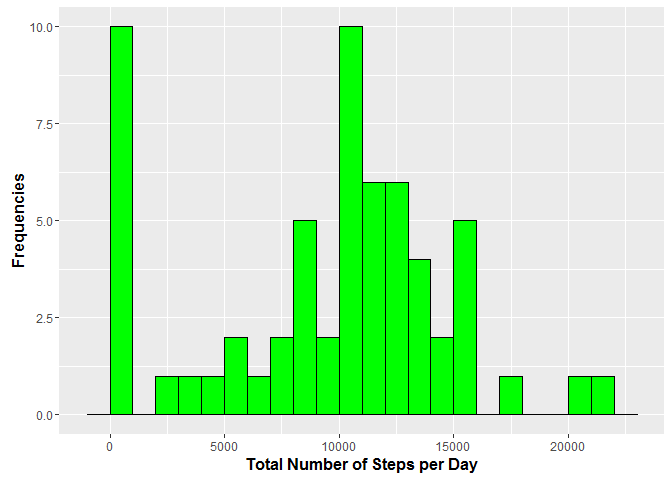
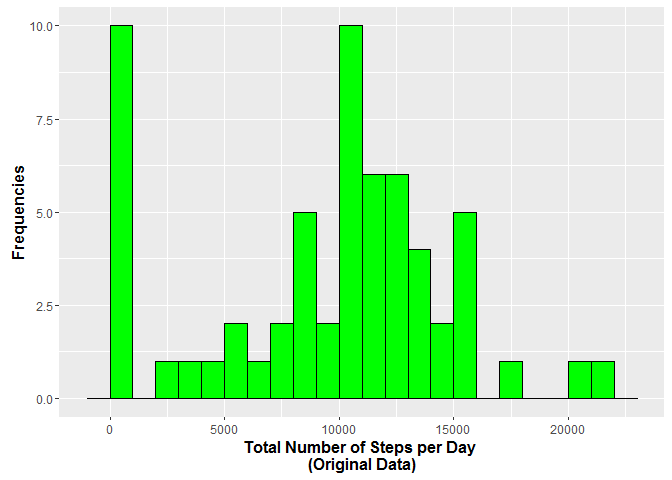
Supplement of the last steps

diff --git a/PA1_template.html b/PA1_template.html
@@ -78,11 +78,11 @@ library(ggplot2)</code></pre>
 <pre><code>## Warning: package 'ggplot2' was built under R version 3.2.3</code></pre>
 <pre class="r"><code># Histogramm
 qplot(part2data$steps, binwidth = 1000) + 
-    xlab(&quot;Total Number of Steps per Day&quot;) +
+    xlab(&quot;Total Number of Steps per Day \n(Original Data)&quot;) +
     ylab(&quot;Frequencies&quot;) +
     theme(axis.title = element_text(face = &quot;bold&quot;, size = 12)) +
     geom_histogram(color = &quot;black&quot;, fill = &quot;green&quot;, binwidth = 1000)</code></pre>
[2 lines of base64/hex data omitted]
 <pre class="r"><code># mean and median of the total number of steps taken per day
 x &lt;- summary(part2data$steps)
 print(x[c(&quot;Mean&quot;, &quot;Median&quot;)])</code></pre>
@@ -105,9 +105,65 @@ print(maxinterval)</code></pre>
 </div>
 <div id="imputing-missing-values" class="section level2">
 <h2>Imputing missing values</h2>
+<p>First the number of missing values is computed:</p>
+<pre class="r"><code># Calculate total number of missing values
+library(sqldf)</code></pre>
+<pre><code>## Warning: package 'sqldf' was built under R version 3.2.3</code></pre>
+<pre><code>## Loading required package: gsubfn</code></pre>
+<pre><code>## Warning: package 'gsubfn' was built under R version 3.2.3</code></pre>
+<pre><code>## Loading required package: proto</code></pre>
+<pre><code>## Warning: package 'proto' was built under R version 3.2.3</code></pre>
+<pre><code>## Loading required package: RSQLite</code></pre>
+<pre><code>## Warning: package 'RSQLite' was built under R version 3.2.3</code></pre>
+<pre><code>## Loading required package: DBI</code></pre>
+<pre><code>## Warning: package 'DBI' was built under R version 3.2.3</code></pre>
+<pre class="r"><code>countNAs &lt;- sqldf(&quot;SELECT COUNT(*) FROM rawdata WHERE steps is NULL&quot;)</code></pre>
+<pre><code>## Loading required package: tcltk</code></pre>
+<pre class="r"><code>print(countNAs)</code></pre>
+<pre><code>##   COUNT(*)
+## 1     2304</code></pre>
+<p>The dataset part3data contains the average steps per intervall across all days. So my impute strategy is to replace the missing value in a special interval with the average of this interval across all days. One effect of this strategy is that a day like October, 1st with missing values everywhere will contain much more steps than before, while October, 2nd with almost only zeroes remains unchanged.</p>
+<p>Following steps are executed:<br />- Merge of the raw data with the average steps per interval<br />- Replacement of missing values<br />- Aggregation across all intervals to determine the total steps per day</p>
+<pre class="r"><code># Daily Activities
+# Impute missing values
+tmp &lt;- merge(rawdata, part3data, by.x = &quot;interval&quot;, by.y = &quot;interval&quot;)
+where &lt;- is.na(tmp$steps.x)
+tmp$steps.x[where] &lt;- tmp$steps.y[where]
+# Aggregate imputed data
+part4data &lt;- aggregate(tmp$steps.x, by = list(tmp$date), FUN = sum)
+# Rename columns
+names(part4data) &lt;- c(&quot;date&quot;, &quot;steps&quot;)</code></pre>
+<p>Afterwards the histogram is generated</p>
+<pre class="r"><code># Histogramm of imputed data
+qplot(part4data$steps, binwidth = 1000) + 
+    xlab(&quot;Total Number of Steps per Day \n(Imputed Data)&quot;) +
+    ylab(&quot;Frequencies&quot;) +
+    theme(axis.title = element_text(face = &quot;bold&quot;, size = 12)) +
+    geom_histogram(color = &quot;black&quot;, fill = &quot;green&quot;, binwidth = 1000)</code></pre>
[1 lines of base64/hex data omitted]
+<pre class="r"><code># mean and median of the total number of steps taken per day of imputed data
+ximp &lt;- summary(part4data$steps)
+print(ximp[c(&quot;Mean&quot;, &quot;Median&quot;)])</code></pre>
+<pre><code>##   Mean Median 
+##  10770  10770</code></pre>
+<p>So the impact is that there are much fewer days with total steps near zero and more days with circa 10000 steps totally. Therefore, mean and median are higher (and in this case the same).</p>
 </div>
 <div id="are-there-differences-in-activity-patterns-between-weekdays-and-weekends" class="section level2">
 <h2>Are there differences in activity patterns between weekdays and weekends?</h2>
+<p>For this analysis the dataset tmp with imputed data is taken as input for the dataset data5input which contains the information about weekday / weekend. As the analysis is made in Germany I had to use the german names of the days.</p>
+<pre class="r"><code># Determine part of week
+part5input &lt;- tmp[, 1:3]
+part5input$partofweek &lt;- as.factor(ifelse(weekdays(as.Date(part5input$date)) 
+    %in% c(&quot;Samstag&quot;, &quot;Sonntag&quot;), &quot;weekend&quot;, &quot;weekday&quot;)) 
+part5data &lt;- aggregate(part5input$steps.x, by = list(part5input$interval, part5input$partofweek), FUN = mean)
+# Rename columns
+names(part5data) &lt;- c(&quot;interval&quot;, &quot;partofweek&quot;, &quot;steps&quot;)</code></pre>
+<p>On base of this data the time series plot is generated:</p>
+<pre class="r"><code># Generating the plot
+#qplot(interval, steps, data = part5data, facets = . ~ partofweek) + geom_line()
+qplot(interval, steps, data = part5data) + geom_line() + 
+    facet_grid(partofweek ~ .) </code></pre>
[1 lines of base64/hex data omitted]
 </div>
 
 

diff --git a/PA1_template.md b/PA1_template.md
@@ -28,7 +28,7 @@ library(ggplot2)
 ```r
 # Histogramm
 qplot(part2data$steps, binwidth = 1000) + 
-	xlab("Total Number of Steps per Day") +
+	xlab("Total Number of Steps per Day \n(Original Data)") +
 	ylab("Frequencies") +
 	theme(axis.title = element_text(face = "bold", size = 12)) +
 	geom_histogram(color = "black", fill = "green", binwidth = 1000)
@@ -75,8 +75,135 @@ print(maxinterval)
 ```
 
 
-## Imputing missing values
+## Imputing missing values   
+First the number of missing values is computed:
+
+```r
+# Calculate total number of missing values
+library(sqldf)
+```
+
+```
+## Warning: package 'sqldf' was built under R version 3.2.3
+```
+
+```
+## Loading required package: gsubfn
+```
+
+```
+## Warning: package 'gsubfn' was built under R version 3.2.3
+```
+
+```
+## Loading required package: proto
+```
+
+```
+## Warning: package 'proto' was built under R version 3.2.3
+```
+
+```
+## Loading required package: RSQLite
+```
+
+```
+## Warning: package 'RSQLite' was built under R version 3.2.3
+```
+
+```
+## Loading required package: DBI
+```
+
+```
+## Warning: package 'DBI' was built under R version 3.2.3
+```
+
+```r
+countNAs <- sqldf("SELECT COUNT(*) FROM rawdata WHERE steps is NULL")
+```
+
+```
+## Loading required package: tcltk
+```
+
+```r
+print(countNAs)
+```
+
+```
+##   COUNT(*)
+## 1     2304
+```
+The dataset part3data contains the average steps per intervall across all days. So my impute strategy
+is to replace the missing value in a special interval with the average of this interval across all days. One
+effect of this strategy is that a day like October, 1st with missing values everywhere will contain much more steps
+than before, while October, 2nd with almost only zeroes remains unchanged.
+
+Following steps are executed:  
+- Merge of the raw data with the average steps per interval   
+- Replacement of missing values   
+- Aggregation across all intervals to determine the total steps per day   
 
 
+```r
+# Daily Activities
+# Impute missing values
+tmp <- merge(rawdata, part3data, by.x = "interval", by.y = "interval")
+where <- is.na(tmp$steps.x)
+tmp$steps.x[where] <- tmp$steps.y[where]
+# Aggregate imputed data
+part4data <- aggregate(tmp$steps.x, by = list(tmp$date), FUN = sum)
+# Rename columns
+names(part4data) <- c("date", "steps")
+```
+Afterwards the histogram is generated
+
+```r
+# Histogramm of imputed data
+qplot(part4data$steps, binwidth = 1000) + 
+	xlab("Total Number of Steps per Day \n(Imputed Data)") +
+	ylab("Frequencies") +
+	theme(axis.title = element_text(face = "bold", size = 12)) +
+	geom_histogram(color = "black", fill = "green", binwidth = 1000)
+```
+
+![](PA1_template_files/figure-html/unnamed-chunk-6-1.png)
+Finally the mean and median values of the imputed data are computed:
+
+```r
+# mean and median of the total number of steps taken per day of imputed data
+ximp <- summary(part4data$steps)
+print(ximp[c("Mean", "Median")])
+```
+
+```
+##   Mean Median 
+##  10770  10770
+```
+So the impact is that there are much fewer days with total steps near zero and more days with circa 10000 steps totally. Therefore, mean and median are higher (and in this case the same).
 
 ## Are there differences in activity patterns between weekdays and weekends?
+For this analysis the dataset tmp with imputed data is taken as input for the dataset 
+data5input which contains the information about weekday / weekend. As the analysis is
+made in Germany I had to use the german names of the days.
+
+```r
+# Determine part of week
+part5input <- tmp[, 1:3]
+part5input$partofweek <- as.factor(ifelse(weekdays(as.Date(part5input$date)) 
+	%in% c("Samstag", "Sonntag"), "weekend", "weekday")) 
+part5data <- aggregate(part5input$steps.x, by = list(part5input$interval, part5input$partofweek), FUN = mean)
+# Rename columns
+names(part5data) <- c("interval", "partofweek", "steps")
+```
+On base of this data the time series plot is generated:
+
+```r
+# Generating the plot
+#qplot(interval, steps, data = part5data, facets = . ~ partofweek) + geom_line()
+qplot(interval, steps, data = part5data) + geom_line() + 
+	facet_grid(partofweek ~ .) 
+```
+
+![](PA1_template_files/figure-html/unnamed-chunk-9-1.png)
